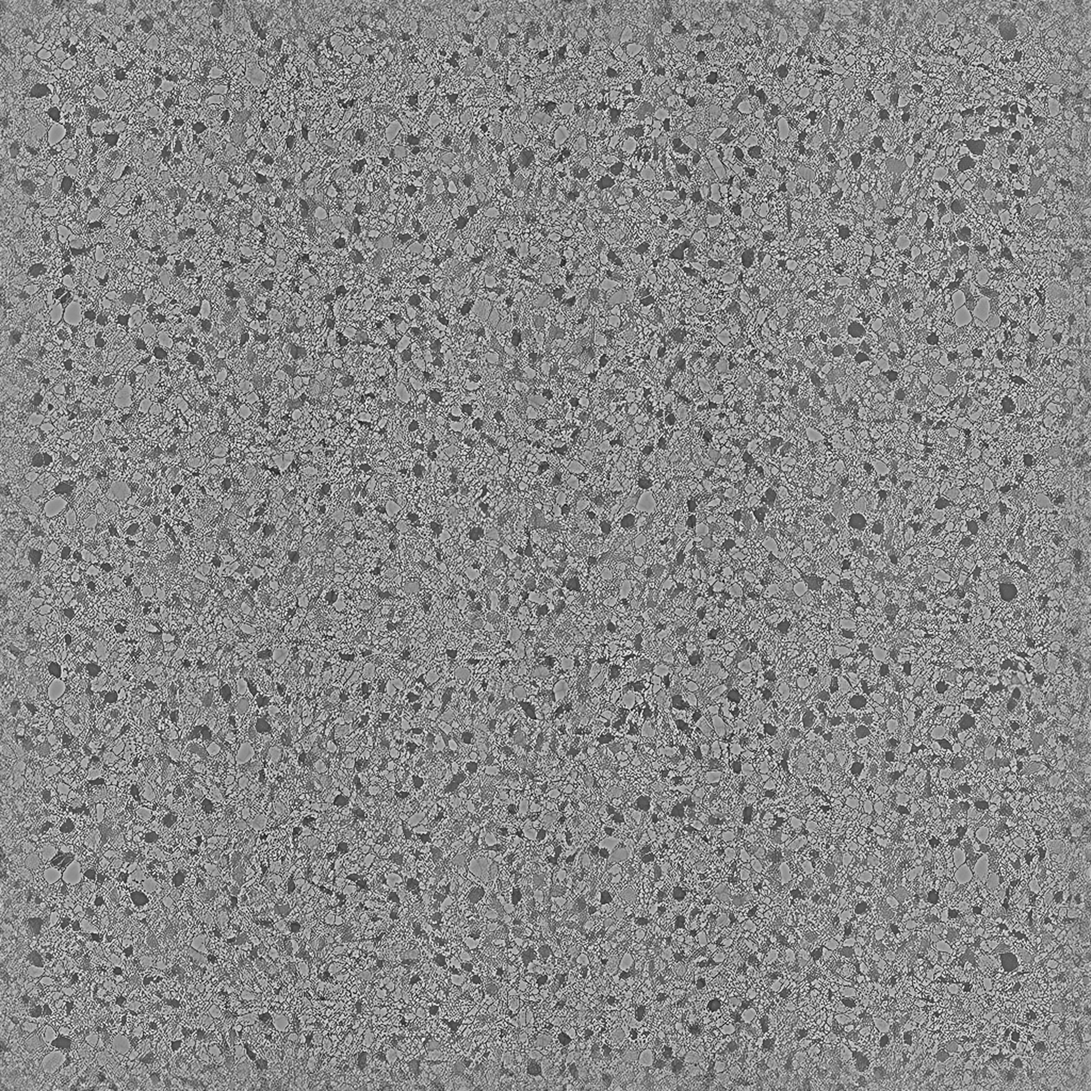
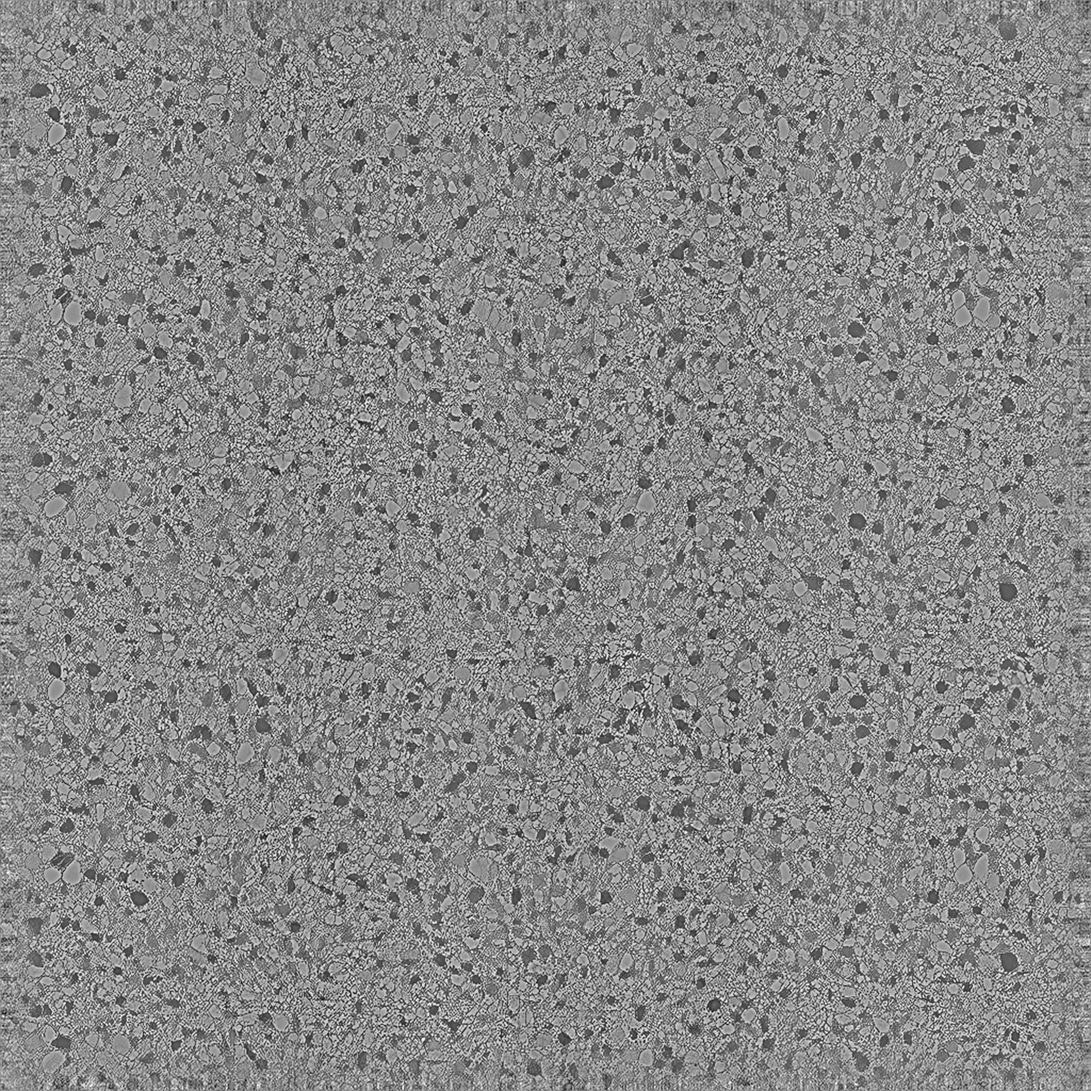
comfyui: task-0002 v2 — швы, потёки, облупленная краска, тёплая побелка
Все пять пунктов возврата отработаны, подтверждено вашей же метрикой:
шов 0.0x на всех 12 картах трёх наборов (было 8.7x на albedo).
Найдены три причины: потёки не заворачивались по Y; карты копоти и пыли
несли собственный градиент; карты высоты и ORM выводились из незакрытой базы.
Проверка шва встроена в поставку и считается на каждой карте.

task-0003 перевыпущена тем же исправлением.

Claude-Session: https://claude.ai/code/session_015NKoX7g8uGABcZ11uYFMB5

diff --git a/pipeline/delivery/task-0002/v2/RESULT.md b/pipeline/delivery/task-0002/v2/RESULT.md
@@ -1,0 +1,84 @@
+# task-0002 — Бетонная панель: стены и перекрытия (v2)
+
+Правки из возврата отработаны по всем пяти пунктам. Ниже — что сделано и чем это
+подтверждено, вашими же метриками.
+
+## 1. Швы — исправлено, причина найдена
+
+**Ваш замер был верен, а мой стоял не на том файле.** Я мерил шов на чистой базе
+1024, а поставлял состаренную карту 2048. Состаривание добавляло потёки, которые
+текли сверху вниз и по вертикали не замыкались, — то есть шов создавал именно тот
+слой, который я не проверял.
+
+Ваш критерий встроен в скрипт поставки и теперь считается **на каждой карте
+каждого набора**, а не на альбедо и не на исходнике. Найдено и починено три
+отдельных причины:
+
+- потёки не заворачивались по Y — переписаны на модульную координату, теперь
+  замыкаются по построению;
+- **карта копоти сгенерирована как поднимающийся столб**, а карта пыли освещена с
+  одной стороны — каждая тащила свой градиент в любую текстуру. У них снимается
+  низкая частота и принудительно замыкаются края;
+- карты высоты и ORM выводятся из базовой высоты, у которой края никто не закрывал —
+  теперь края закрываются в самой поставке узкой рампой в 2% ширины.
+
+Замер на поставленных файлах, ваша формула:
+
+| карта | Y | X |
+|---|---|---|
+| все двенадцать карт трёх наборов | **0,0×** | **0,0×** |
+
+Две более тяжёлые попытки не сработали и повторять их не стоит: широкая
+перекрёстная подмешка сшивает не те строки и лишь вдвое уменьшает разрыв, а полная
+переукладка карты высот через кроп-сдвиг сделала хуже — нормировка поднимала шум
+быстрее, чем закрывала стык.
+
+## 2. Потёки — исправлено
+
+Источники теперь ставятся в произвольную точку по высоте, а не у верхнего края, и
+длина по умолчанию треть кадра вместо трёх четвертей. Частокола из восемнадцати
+одинаковых полос больше нет. Потёк, которому нужно бежать дальше, — это декаль на
+отдельные тайлы, а не содержимое тайла; согласен с вашей формулировкой.
+
+## 3. `wall-paint-worn` — переделано
+
+Было: округлые пятна ровного тёмно-серого. Стало:
+
+- **под краской светлая штукатурка**, а не тёмное пятно — подложка была ошибочно
+  средне-серой, отсюда и камуфляж;
+- отслоения **мельче и собраны группами**, а не рассыпаны ровно: маска умножается на
+  плавное поле, так что краска отходит там, где сырость;
+- по краям отслоений сохранён кракелюр, кромка приподнята.
+
+## 4. Цвет — исправлено
+
+| набор | насыщенность (было → стало) | R / G / B |
+|---|---|---|
+| concrete-facade | 1,3 → 1,4 | 145 / 144 / 144 |
+| wall-paint | 1,9 → **15,3** | 180 / 175 / 165 |
+| wall-paint-worn | 2,8 → **16,8** | 162 / 157 / 146 |
+
+Побелка ушла в тёплый, R > G > B. Фасад остался нейтральным намеренно — бетон
+серый, — но **ржавые подтёки от закладных усилены** и теперь читаются: 3–4 места
+на тайл, как вы и просили.
+
+## 5. `wall-paint` — исправлено частично, скажу честно
+
+СКО яркости 12 → **15,9**. Это лучше, но всё ещё ниже 19 и 26 у соседей. Добавлен
+слой крупных мягких пятен — неровность штукатурки и разнотон от валика — на низкой
+частоте, как вы и просили. Дальше поднимать не стал: следующий шаг заметно уводит
+стену в пятнистость, а по стилевому ориентиру она должна оставаться выцветшей
+нейтралью. Если 15,9 мало — поднимается одним числом, скажите.
+
+## Что не менялось
+
+Разрешение, набор карт, ORM, конвенция нормалей, имена файлов, структура папок —
+как в v1, замечаний не было.
+
+## Отклонения от задания
+
+- **AO по-прежнему не запечён с геометрии**, а выведен из карты высот как cavity.
+  Приближение; настоящий бейк — после появления меша.
+- Края всех карт закрыты рампой шириной 2% кадра. Это трогает узкую полосу по
+  периметру и делается ради гарантии шва; на глаз незаметно, но это правка данных,
+  поэтому она названа.

diff --git a/pipeline/delivery/task-0003/v1/RESULT.md b/pipeline/delivery/task-0003/v1/RESULT.md
@@ -61,6 +61,18 @@
 любые строки в ней далеко друг от друга. Отношение около единицы, и это и есть
 ответ — по одной абсолютной величине вердикт был бы ложным.
 
+## Обновлено вместе с task-0002 v2
+
+Файлы этой поставки **перевыпущены** с исправлением, найденным по возврату task-0002:
+края всех карт замыкаются, и это проверяется вашей формулой на каждой карте, а не
+только на альбедо. `landing-floor` и `stair-tread` — 0,0× по обеим осям на всех
+четырёх картах. `stair-wall` — трим, он тайлится только по X, проверка шва к нему
+не применяется (см. ниже).
+
+Причина исходного дефекта: я мерил шов на чистой базе, а поставлял состаренную карту;
+слой состаривания и сами карты грязи несли собственные градиенты. Подробный разбор —
+в `task-0002/v2/RESULT.md`.
+
 ## Отклонения от задания
 
 - **AO не запечён с геометрии**, а выведен из карты высот как cavity. Приближение;

diff --git a/pipeline/QUEUE.md b/pipeline/QUEUE.md
@@ -6,8 +6,8 @@
 | ID | Задание | Кому | Тип | Ревизия | Статус | Папка | Создано | Закрыто |
 |---|---|---|---|---|---|---|---|---|
 | task-0001 | Локомоция на эталонном риге | **houdini-anim** | animation | v1 | open | open/ | 2026-08-23 | — |
-| task-0002 | Бетонная панель: стены и перекрытия | **comfyui** | texture | v2 | open | open/ | 2026-08-27 | — |
 | task-0004 | Грязь и разводы на стекло | **comfyui** | texture | v1 | open | open/ | 2026-08-27 | — |
+| task-0002 | Бетонная панель: стены и перекрытия | **comfyui** | texture | v2 | done | done/ | 2026-08-27 | 2026-08-27 |
 | task-0003 | Плитка и бетон лестничной клетки | **comfyui** | texture | v1 | done | done/ | 2026-08-27 | 2026-08-27 |
 
 ## Следующий свободный номер

diff --git a/pipeline/tasks/done/task-0002-panel-concrete.md b/pipeline/tasks/done/task-0002-panel-concrete.md
@@ -3,12 +3,12 @@ id: task-0002
 title: Бетонная панель: стены и перекрытия
 assignee: comfyui
 type: texture
-status: open
+status: done
 revision: 2
 priority: normal
 created: 2026-08-27
 started: 2026-08-27
-finished:
+finished: 2026-08-27
 ---
 
 # task-0002 — Бетонная панель: стены и перекрытия
